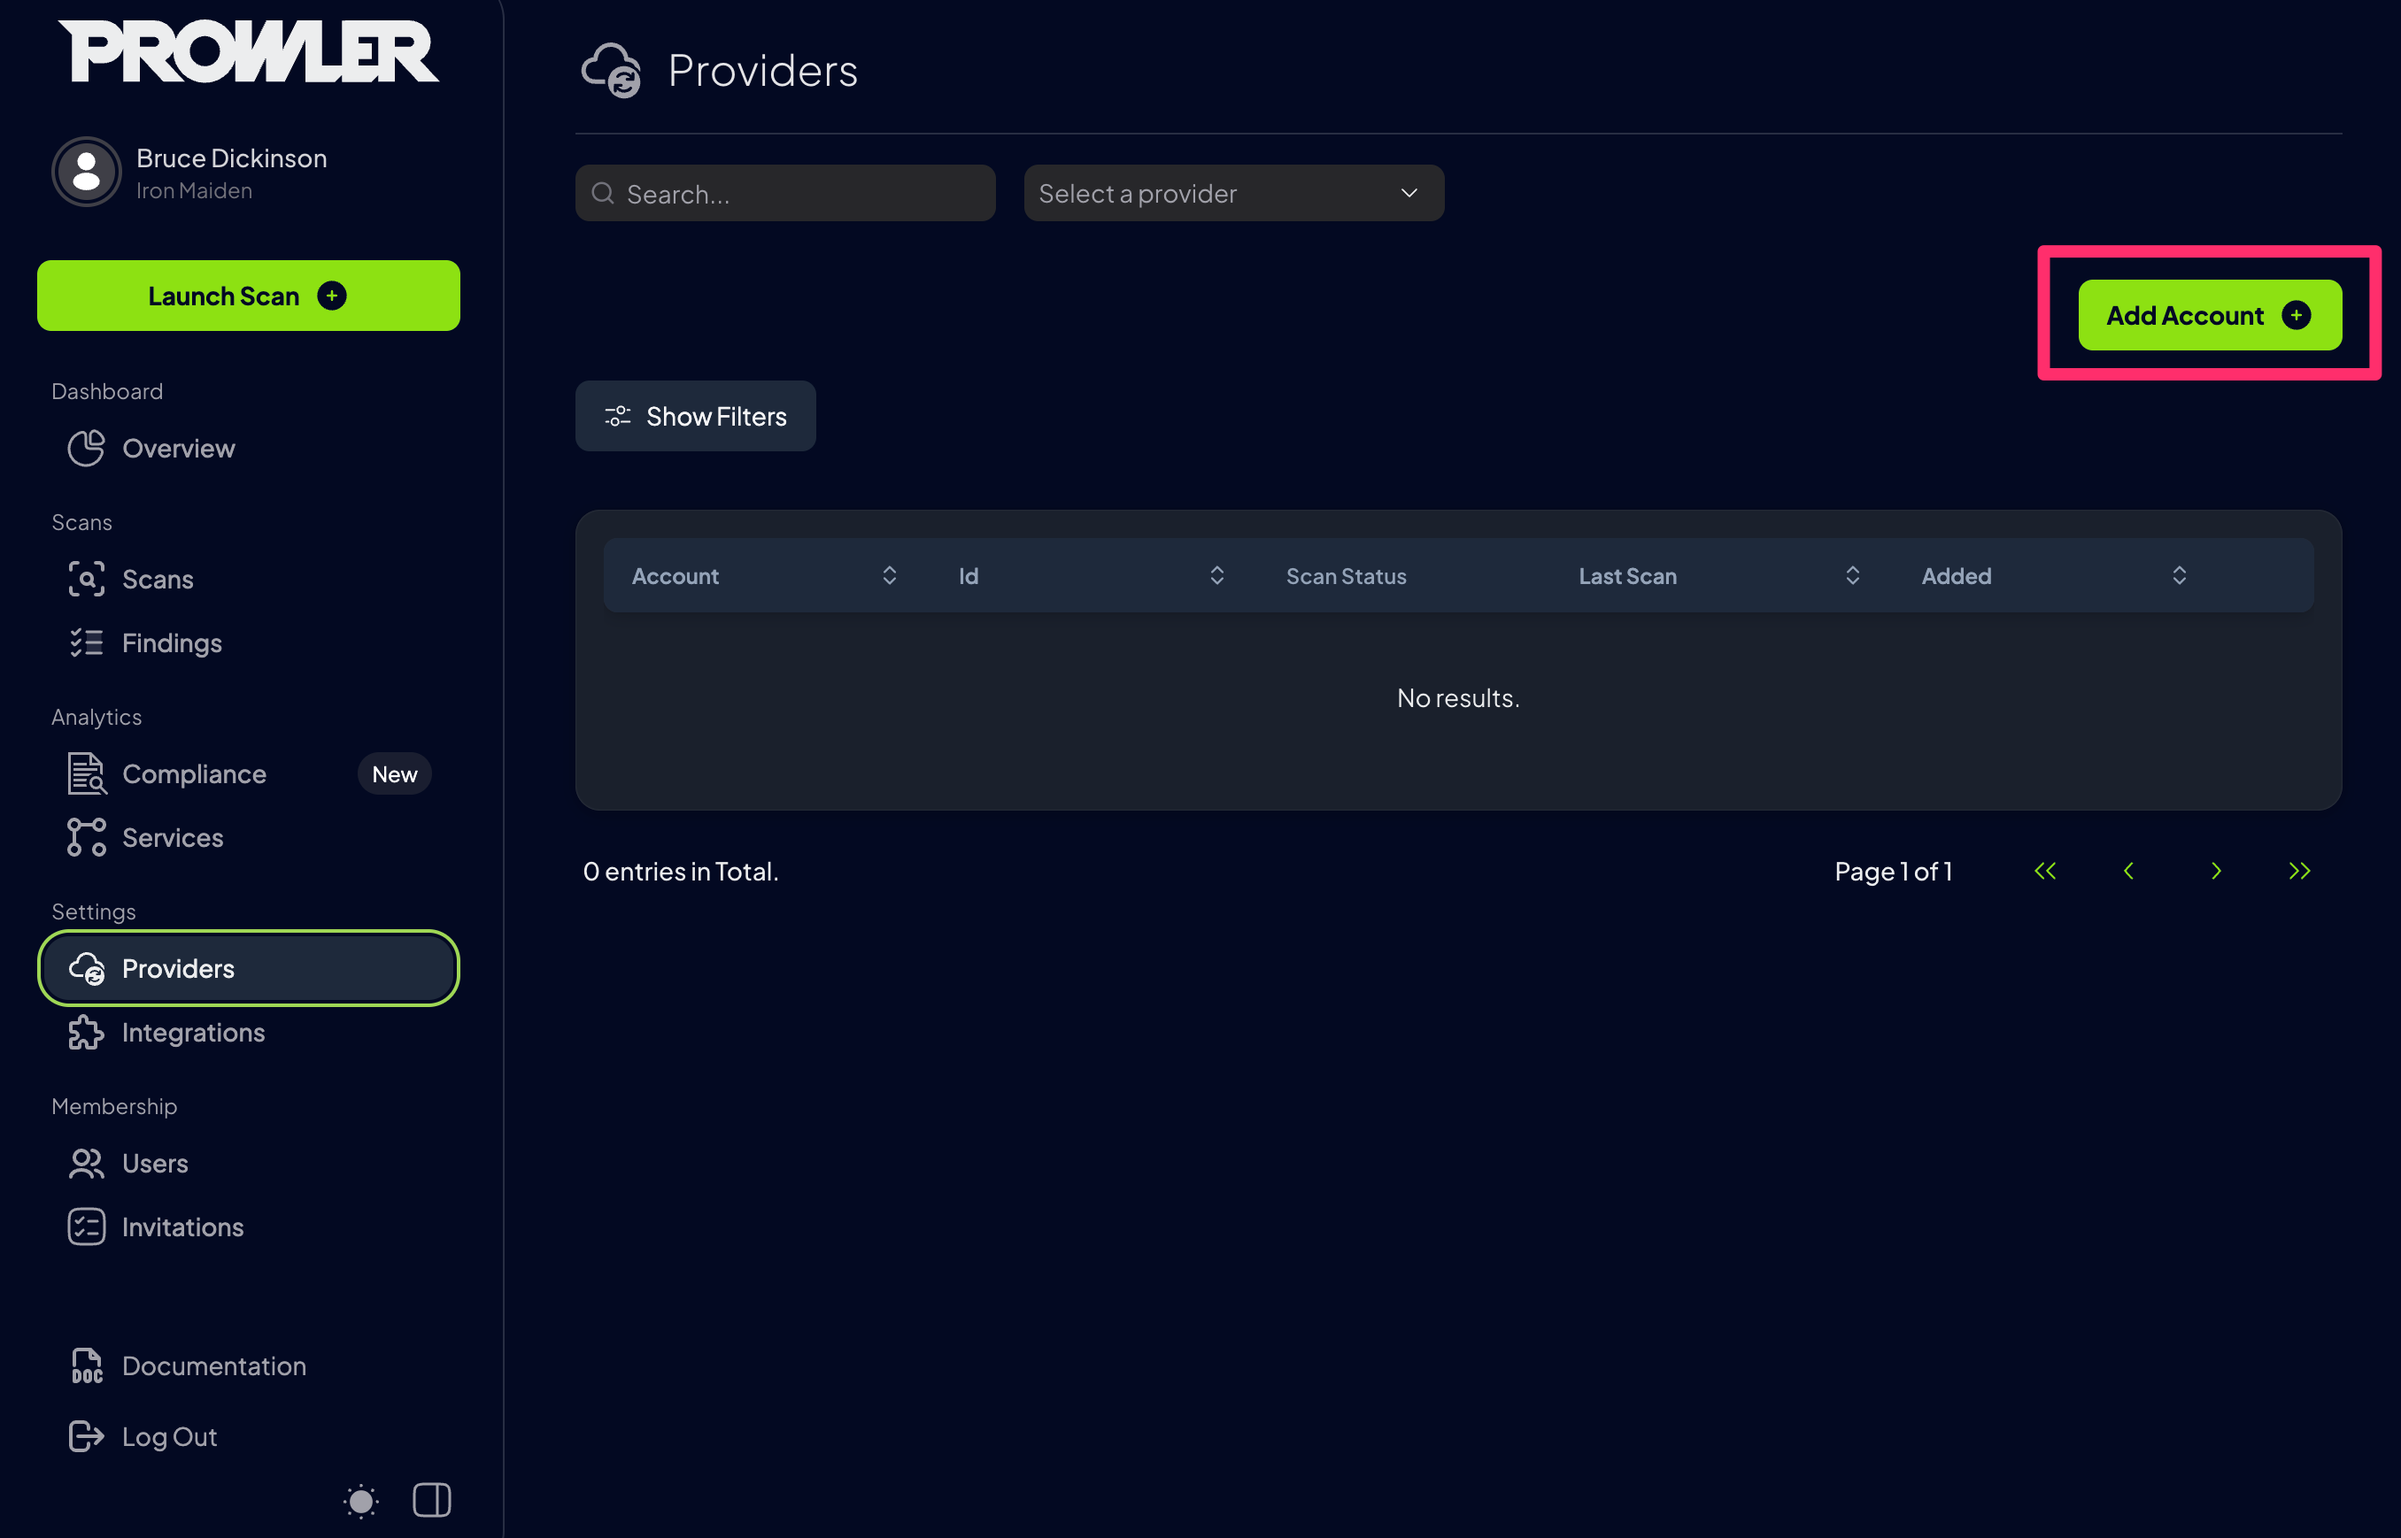
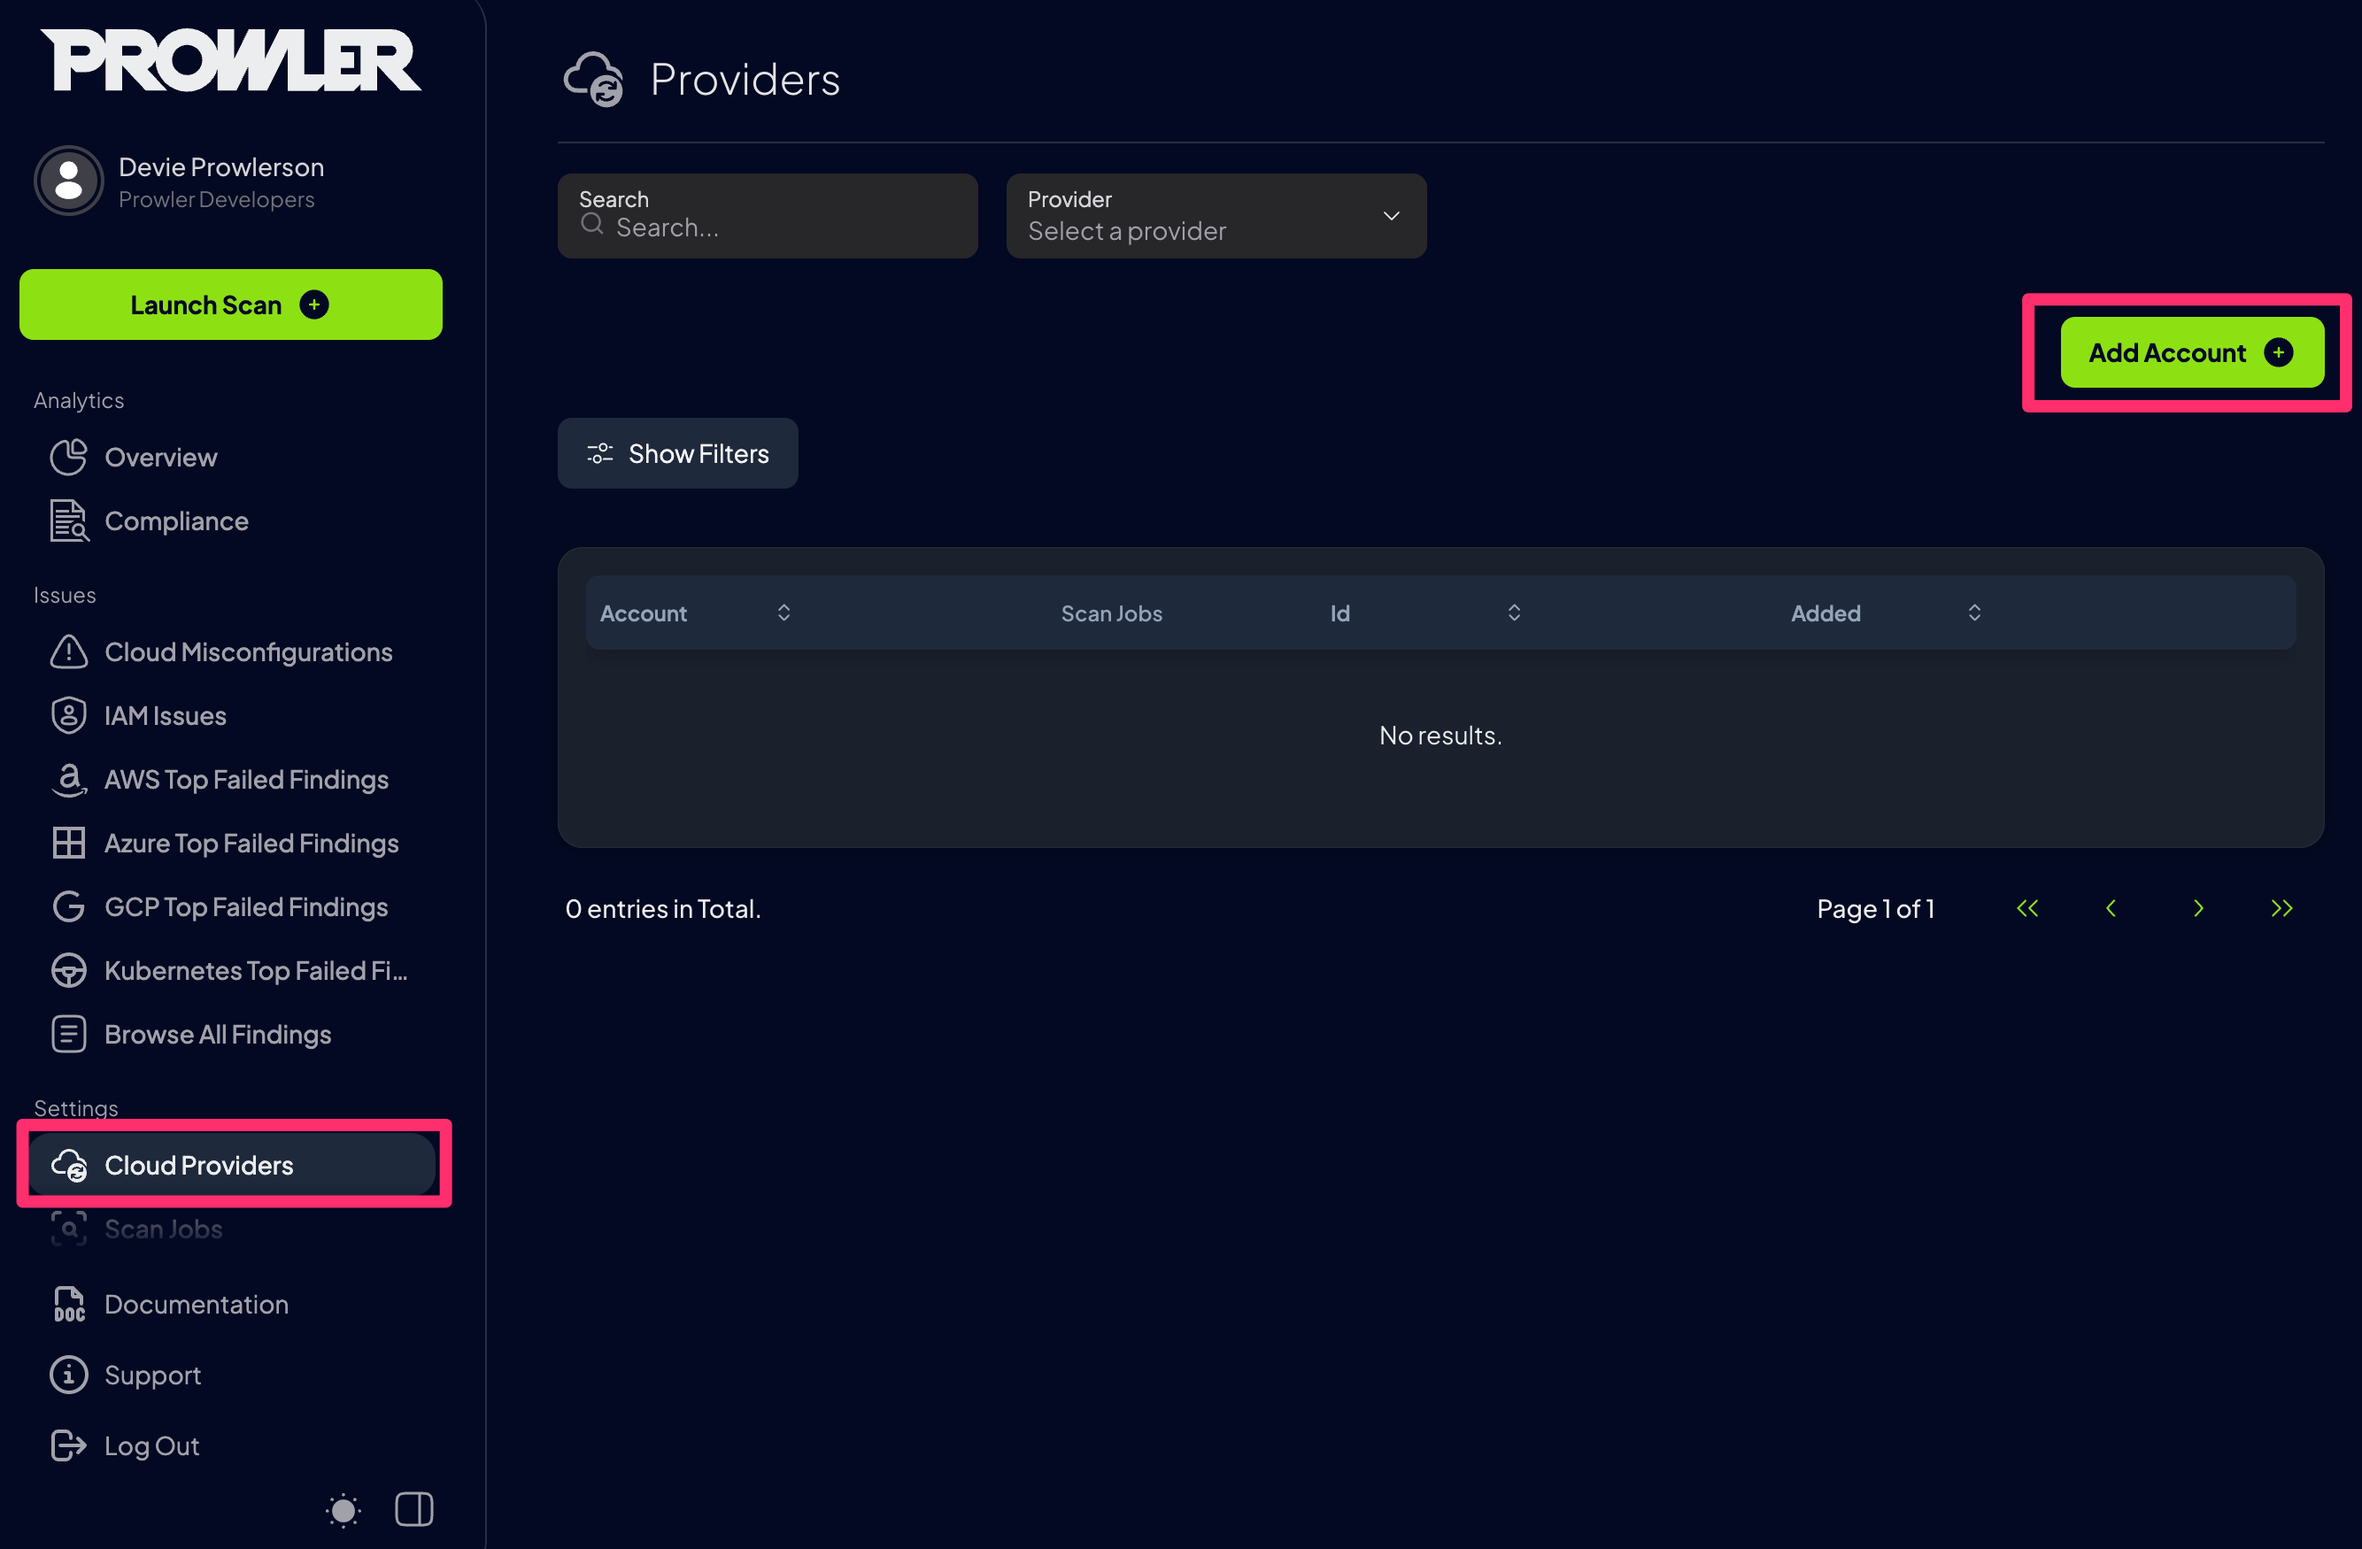
chore(docs): update screenshots and docs of Prowler App

diff --git a/docs/tutorials/prowler-app.md b/docs/tutorials/prowler-app.md
@@ -18,12 +18,14 @@ Once you’ve signed up, log in with your email and password to start using the 
 
 <img src="../../img/log-in.png" alt="Log In" width="350"/>
 
+You will see the Overview page with no data yet, so let's start adding a provider to scan your cloud environment.
+
 ---
 
 ## **Step 3: Add a Provider**
-To run your first scan:
+To run your first scan, you need to add a cloud provider account. Prowler App supports AWS, Azure, GCP, and Kubernetes.
 
-1. Navigate to `Settings > Providers`.
+1. Navigate to `Settings > Cloud Providers`.
 2. Click `Add Account` to set up a new provider and provide your credentials:
 
 <img src="../../img/add-provider.png" alt="Add Provider" width="700"/>
@@ -33,6 +35,10 @@ To run your first scan:
 ## **Step 4: Configure the Provider**
 Choose the provider you want to scan from the following options:
 
+<img src="../../img/select-provider.png" alt="Select a Provider" width="700"/>
+
+Once you’ve selected a provider, you need to provide the Provider UID:
+
 - **AWS**: Enter your AWS Account ID.
 - **GCP**: Enter your GCP Project ID.
 - **Azure**: Enter your Azure Subscription ID.
@@ -40,11 +46,9 @@ Choose the provider you want to scan from the following options:
 
 Optionally, provide a **Provider Alias** for easier identification. Follow the instructions provided to add your credentials:
 
-<img src="../../img/add-account.png" alt="Add Account" width="700"/>
-
 ---
 ### **Step 4.1: AWS Credentials**
-For AWS, Prowler App can use either IAM Access Keys or assume an IAM Role. Here’s how to set up each:
+For AWS, enter your `AWS Account ID` and choose one of the following methods to connect:
 
 #### **Step 4.1.1: IAM Access Keys**
 1. Select `Connect via Credentials`.
@@ -95,15 +99,15 @@ By default, the `kubeconfig` file is located at `~/.kube/config`.
 ---
 
 ## **Step 5: Test Connection**
-After adding your credentials of your cloud account, click the `Test Connection` button to verify that the Prowler App can successfully connect to your provider:
+After adding your credentials of your cloud account, click the `Launch` button to verify that the Prowler App can successfully connect to your provider:
 
 <img src="../../img/test-connection-button.png" alt="Test Connection" width="700"/>
 
 
-## **Step 6: Start Your First Scan**
-After successfully adding and testing your credentials, click the `Start Now` button to initiate your first scan:
+## **Step 6: Scan started**
+After successfully adding and testing your credentials, Prowler will start scanning your cloud environment, click on the `Go to Scans` button to see the progress:
 
-<img src="../../img/start-now.png" alt="Start Now" width="700"/>
+<img src="../../img/provider-added.png" alt="Start Now" width="700"/>
 
 ???+ note
     Prowler will automatically scan all configured providers every **24 hours**, ensuring your cloud environment stays continuously monitored.
@@ -119,7 +123,10 @@ Track the progress of your scan in the `Scans` section:
 ## **Step 8: Analyze the Findings**
 While the scan is running, start exploring the findings in these sections:
 
-- **Overview**: High-level summary of the scan.
-- **Findings**: Detailed list of issues detected. <img src="../../img/findings.png" alt="Findings" width="700"/>
+- **Overview**: High-level summary of the scans. <img src="../../img/overview.png" alt="Overview" width="700"/>
 - **Compliance**: Insights into compliance status. <img src="../../img/compliance.png" alt="Compliance" width="700"/>
-- **Services**: Breakdown of services scanned. <img src="../../img/services.png" alt="Services" width="700"/>
+- **Issues**: Types of issues detected.
+
+<img src="../../img/issues.png" alt="Issues" width="300" style="text-align: center;"/>
+
+- **Browse All Findings**: Detailed list of findings detected, where you can filter by severity, service, and more. <img src="../../img/findings.png" alt="Findings" width="700"/>

diff --git a/docs/index.md b/docs/index.md
@@ -2,7 +2,7 @@
 
 ## Prowler App
 
-![Prowler App](img/compliance-app.png)
+![Prowler App](img/overview.png)
 
 Prowler App is a web application that allows you to run Prowler in a simple way. It provides a user-friendly interface to configure and run scans, view results, and manage your security findings.
 
@@ -362,21 +362,19 @@ Log in with your email and password to start using the Prowler App.
 <img src="img/log-in.png" alt="Log In" width="285"/>
 
 #### **Add a Provider**
-- Go to `Settings > Providers` and click `Add Account`.
+- Go to `Settings > Cloud Providers` and click `Add Account`.
 - Select the provider you want to scan (AWS, GCP, Azure, Kubernetes).
 - Enter the provider's ID (AWS Account ID, GCP Project ID, Azure Subscription ID, Kubernetes Cluster) and optional alias.
 - Follow the instructions to add your credentials.
 
 #### **Start a Scan**
-Once your credentials are added and tested, click `Start Now` to run your first scan.
+After successfully adding and testing your credentials, Prowler will start scanning your cloud environment, click on the `Go to Scans` button to see the progress.
 
 #### **View Results**
-Monitor your scan's progress in the `Scans` section and analyze the findings in:
+While the scan is running, start exploring the findings in these sections:
 
-- **Overview**: High-level summary of the scan.
-- **Findings**: Detailed list of issues detected. <img src="img/findings.png" alt="Findings" width="700"/>
-- **Compliance**: Insights into compliance status. <img src="img/compliance.png" alt="Compliance" width="700"/>
-- **Services**: Breakdown of services scanned. <img src="img/services.png" alt="Services" width="700"/>
+- **Overview**: High-level summary of the scans. <img src="../../img/overview.png" alt="Overview" width="700"/>
+- **Compliance**: Insights into compliance status. <img src="../../img/compliance.png" alt="Compliance" width="700"/>
 
 > See more details about the Prowler App usage in the [Prowler App](tutorials/prowler-app.md) section.
 

diff --git a/README.md b/README.md
@@ -49,7 +49,7 @@
 
 Prowler App is a web application that allows you to run Prowler in your cloud provider accounts and visualize the results in a user-friendly interface.
 
-![Prowler App](docs/img/compliance-app.png)
+![Prowler App](docs/img/overview.png)
 
 >More details at [Prowler App Documentation](https://docs.prowler.com/projects/prowler-open-source/en/latest/#prowler-app-installation)
 
